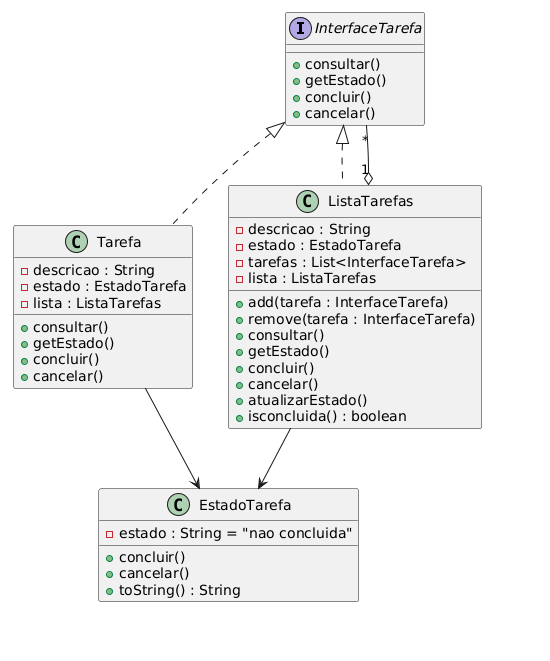
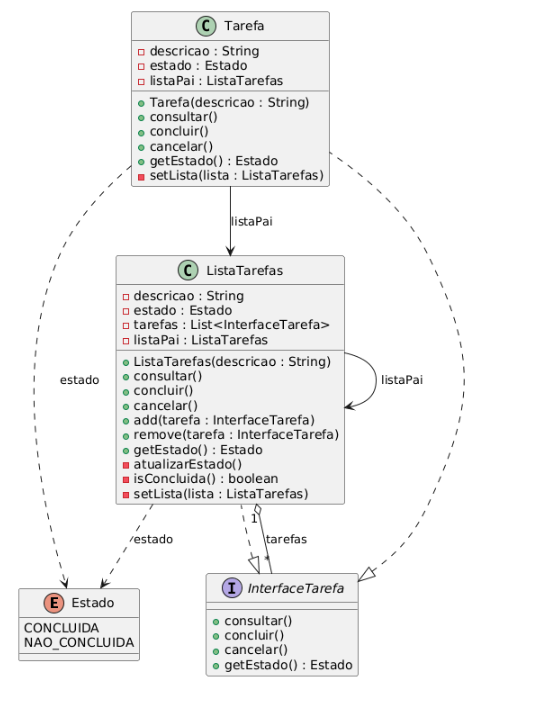
att

Changed region(s): [[0.031, 0.0, 0.867, 0.9682], [0.8051, 0.6354, 0.8361, 0.6657]]

diff --git a/Padroes_De_Software/Atividade4/Composite/ListaTarefas.java b/Padroes_De_Software/Atividade4/Composite/ListaTarefas.java
@@ -3,9 +3,10 @@ package Padroes_De_Software.Atividade4.Composite;
 import java.util.ArrayList;
 import java.util.List;
 
+
 public class ListaTarefas implements InterfaceTarefa {
     private String descricao;
-    private EstadoTarefa estado = new EstadoTarefa();
+    private Estado estado = Estado.NAO_CONCLUIDA;
     private List<InterfaceTarefa> tarefas = new ArrayList<>();
     private ListaTarefas listaPai;
 
@@ -14,10 +15,10 @@ public class ListaTarefas implements InterfaceTarefa {
     }
 
     protected void atualizarEstado() {
-        if (!isconcluida()) {
-            estado.cancelar();
+        if (isConcluida()) {
+            estado = Estado.CONCLUIDA;
         } else {
-            estado.concluir();
+            estado = Estado.NAO_CONCLUIDA;
         }
         if (listaPai != null) {
             listaPai.atualizarEstado();
@@ -28,13 +29,12 @@ public class ListaTarefas implements InterfaceTarefa {
         for (InterfaceTarefa tarefa : tarefas) {
             tarefa.concluir();
         }
-        if (isconcluida()) {
-            estado.concluir();
-            System.out.println("Lista (" + descricao + "): " + getEstado());
-        }
+        atualizarEstado();
+        System.out.println("Lista (" + descricao + "): " + getEstado());
     }
+
     public void cancelar() {
-        estado.cancelar();
+        estado = Estado.NAO_CONCLUIDA;
         for (InterfaceTarefa tarefa : tarefas) {
             tarefa.cancelar();
         }
@@ -46,18 +46,21 @@ public class ListaTarefas implements InterfaceTarefa {
     public void add(InterfaceTarefa tarefa) {
         tarefas.add(tarefa);
         if (tarefa instanceof Tarefa) {
-            ((Tarefa) tarefa).setlista(this);
+            ((Tarefa) tarefa).setLista(this);
         } else if (tarefa instanceof ListaTarefas) {
-            ((ListaTarefas) tarefa).setlista(this);
+            ((ListaTarefas) tarefa).setLista(this);
         }
-    }
-    public void remove(InterfaceTarefa tarefa) {
-        tarefas.remove(tarefa);
+        atualizarEstado();
     }
 
-    protected boolean isconcluida() {
+    public void remove(InterfaceTarefa tarefa) {
+        tarefas.remove(tarefa);
+        atualizarEstado();
+    }
+
+    protected boolean isConcluida() {
         for (InterfaceTarefa t : tarefas) {
-            if (t.getEstado().toString().equals("nao concluida")) {
+            if (t.getEstado() == Estado.NAO_CONCLUIDA) {
                 return false;
             }
         }
@@ -71,11 +74,11 @@ public class ListaTarefas implements InterfaceTarefa {
         System.out.println("Lista (" + descricao + "): " + getEstado());
     }
 
-    public EstadoTarefa getEstado() {
+    public Estado getEstado() {
         return estado;
     }
-    private void setlista(ListaTarefas l) {
+
+    private void setLista(ListaTarefas l) {
         this.listaPai = l;
     }
-
 }

diff --git a/Padroes_De_Software/Atividade4/Composite/Tarefa.java b/Padroes_De_Software/Atividade4/Composite/Tarefa.java
@@ -2,14 +2,14 @@ package Padroes_De_Software.Atividade4.Composite;
 
 public class Tarefa implements InterfaceTarefa {
     private String descricao;
-    private EstadoTarefa estado = new EstadoTarefa();
+    private Estado estado = Estado.NAO_CONCLUIDA;
     private ListaTarefas listaPai;
 
     public Tarefa(String descricao) {
         this.descricao = descricao;
     }
 
-    protected void setlista(ListaTarefas l) {
+    protected void setLista(ListaTarefas l) {
         this.listaPai = l;
     }
 
@@ -18,21 +18,22 @@ public class Tarefa implements InterfaceTarefa {
     }
 
     public void concluir() {
-        System.out.println("Executando " + descricao + ".... Concluida!");
-        estado.concluir();
+        estado = Estado.CONCLUIDA;
+        System.out.println("Executando " + descricao + ".... "+  estado);
         if (listaPai != null) {
             listaPai.atualizarEstado();
         }
     }
 
     public void cancelar() {
-        estado.cancelar();
+        estado = Estado.NAO_CONCLUIDA;
+        System.out.println("Cancelando " + descricao + ".... "+  estado);
         if (listaPai != null) {
             listaPai.atualizarEstado();
         }
     }
 
-    public EstadoTarefa getEstado(){
+    public Estado getEstado() {
         return estado;
     }
 }

diff --git a/Padroes_De_Software/Atividade4/Cliente/Cliente.java b/Padroes_De_Software/Atividade4/Cliente/Cliente.java
@@ -46,11 +46,13 @@ public class Cliente {
         System.out.println("\n--- Concluir algumas tarefas ---");
         t1.concluir();
         t2.concluir();
+        System.out.println("--- Estado do Módulo 1 ---");
         modulo1.consultar();
 
         // CONCLUIR TODAS AS TAREFAS DO MÓDULO 2
         System.out.println("\n--- Concluir Módulo 2 ---");
         modulo2.concluir();
+        System.out.println("--- Estado do Módulo 2 ---");
         modulo2.consultar();
 
         // CONSULTAR PROJETO COMPLETO (ainda não concluído pois faltam tarefas da fase 2)
@@ -70,6 +72,7 @@ public class Cliente {
         // DESFAZER UMA TAREFA
         System.out.println("\n--- Cancelar conclusão de uma tarefa (Deploy inicial) ---");
         t7.cancelar();
+        System.out.println("--- Estado do Projeto após cancelamento ---");
         projeto.consultar();
     }
 }

diff --git a/Padroes_De_Software/Atividade4/Composite/InterfaceTarefa.java b/Padroes_De_Software/Atividade4/Composite/InterfaceTarefa.java
@@ -2,7 +2,7 @@ package Padroes_De_Software.Atividade4.Composite;
 
 public interface InterfaceTarefa {
     void consultar();
-    EstadoTarefa getEstado();
+    Estado getEstado();
     void concluir();
     void cancelar();
 }

diff --git a/Padroes_De_Software/Atividade4/Composite/Estado.java b/Padroes_De_Software/Atividade4/Composite/Estado.java
@@ -1,0 +1,6 @@
+package Padroes_De_Software.Atividade4.Composite;
+
+public enum Estado {
+    NAO_CONCLUIDA,
+    CONCLUIDA
+}
